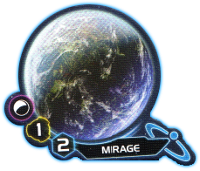
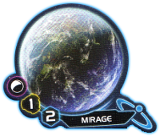
Mirage fix and others

diff --git a/src/main/java/ti4/generator/GenerateMap.java b/src/main/java/ti4/generator/GenerateMap.java
@@ -509,7 +509,8 @@ public class GenerateMap {
                 continue;
             }
             try {
-                image = resizeImage(ImageIO.read(new File(tokenPath)), 0.80f);
+                float scale = tokenPath.contains(Constants.MIRAGE) ? 1.0f : 0.80f;
+                image = resizeImage(ImageIO.read(new File(tokenPath)), scale);
             } catch (Exception e) {
                 LoggerHandler.log("Could not parse control token file for: " + tokenID, e);
             }
@@ -554,6 +555,8 @@ public class GenerateMap {
             LoggerHandler.log("Could not parse damage token file.", e);
         }
 
+        boolean isMirage = unitHolder.getName().equals(Constants.MIRAGE);
+
         for (java.util.Map.Entry<String, Integer> unitEntry : units.entrySet()) {
             String unitID = unitEntry.getKey();
             Integer unitCount = unitEntry.getValue();
@@ -585,12 +588,13 @@ public class GenerateMap {
 
 
             Point centerPosition = unitHolder.getHolderCenterPosition();
+
             for (int i = 0; i < unitCount; i++) {
                 Point position = planetTokenPosition != null ? planetTokenPosition.getPosition(unitID) : null;
                 boolean searchPosition = true;
                 int x = 0;
                 int y = 0;
-                while (searchPosition) {
+                while (searchPosition && position == null) {
                     x = (int) (radius * Math.sin(degree));
                     y = (int) (radius * Math.cos(degree));
                     int possibleX = tileX + centerPosition.x + x - (image.getWidth() / 2);
@@ -611,6 +615,11 @@ public class GenerateMap {
                 int yOriginal = tileY + centerPosition.y + y;
                 int imageX = position != null ? tileX + position.x : xOriginal - (image.getWidth() / 2);
                 int imageY = position != null ? tileY + position.y : yOriginal - (image.getHeight() / 2);
+                if (isMirage)
+                {
+                    imageX += Constants.MIRAGE_POSITION.x;
+                    imageY += Constants.MIRAGE_POSITION.y;
+                }
                 graphics.drawImage(image, imageX, imageY, null);
                 if (bulkUnitCount != null) {
                     graphics.setFont(Storage.getFont26());

diff --git a/src/main/java/ti4/helpers/Helper.java b/src/main/java/ti4/helpers/Helper.java
@@ -24,7 +24,7 @@ public class Helper {
     public static void addMirageToTile(Tile tile) {
         HashMap<String, UnitHolder> unitHolders = tile.getUnitHolders();
         if (unitHolders.get(Constants.MIRAGE) == null){
-            Point mirageCenter = new Point(Constants.MIRAGE_POSITION.x + 75, Constants.MIRAGE_POSITION.y + 65);
+            Point mirageCenter = new Point(Constants.MIRAGE_POSITION.x + Constants.MIRAGE_CENTER_POSITION.x, Constants.MIRAGE_POSITION.y + Constants.MIRAGE_CENTER_POSITION.y);
             Planet planetObject = new Planet(Constants.MIRAGE, mirageCenter);
             unitHolders.put(Constants.MIRAGE, planetObject);
         }

diff --git a/src/main/java/ti4/helpers/Constants.java b/src/main/java/ti4/helpers/Constants.java
@@ -71,6 +71,7 @@ public class Constants {
     public static final int RADIUS = 45;
     public static final Point SPACE_CENTER_POSITION = new Point(172, 150);
     public static final Point MIRAGE_POSITION = new Point(55, 5);
+    public static final Point MIRAGE_CENTER_POSITION = new Point(70, 60);
     public static final String MIRAGE = "mirage";
     public static final String SLEEPER = "sleeper";
     public static final String PLANET = "planet";

diff --git a/src/main/java/ti4/commands/map/AddTile.java b/src/main/java/ti4/commands/map/AddTile.java
@@ -18,6 +18,6 @@ public class AddTile extends AddRemoveTile {
 
     @Override
     protected String getActionDescription() {
-        return "Remove tile to map";
+        return "Add tile to map";
     }
 }
